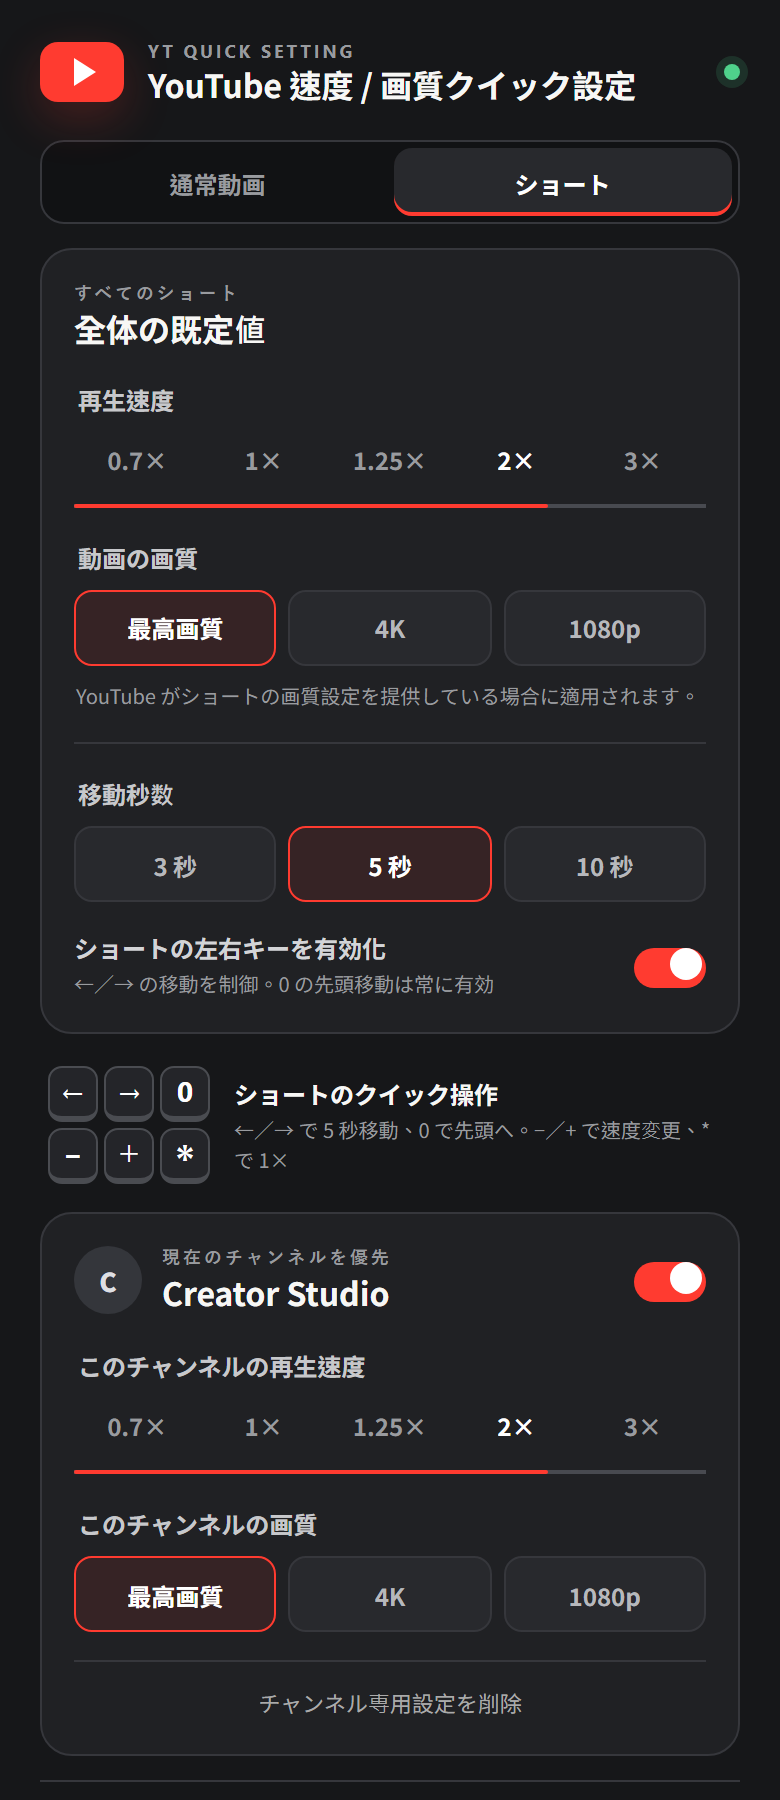
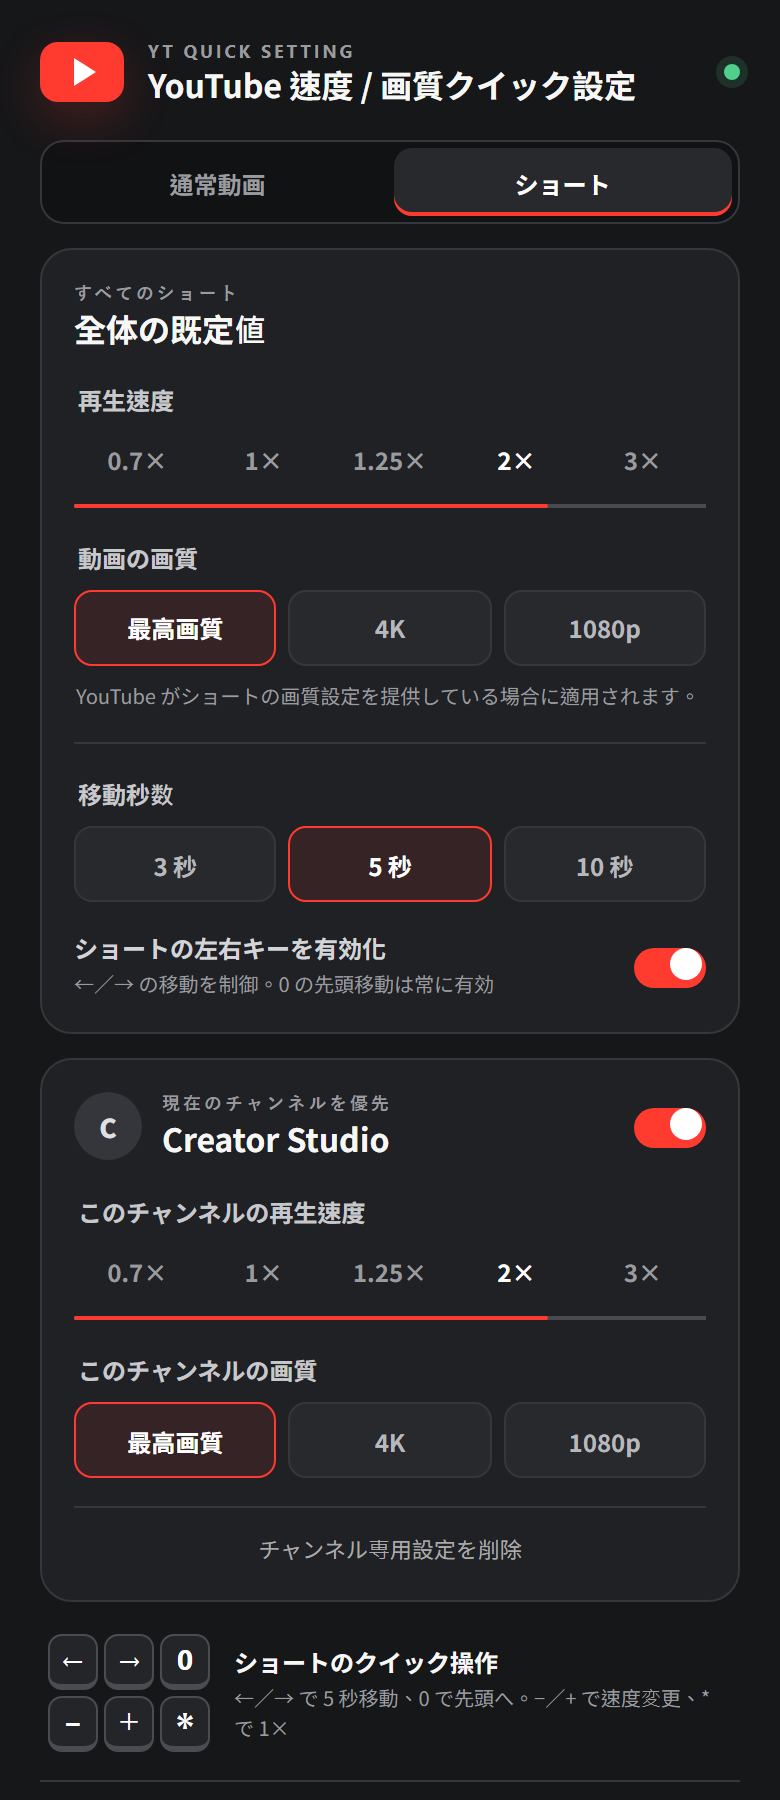
Restore previous Shorts popup layout

diff --git a/tests/popup-ui.test.js b/tests/popup-ui.test.js
@@ -46,8 +46,8 @@ const { chromium } = require("playwright");
   const shortsShortcut = await page.locator("#shortcutHint").boundingBox();
   const shortsChannel = await page.locator("#channelCard").boundingBox();
   assert.ok(shortsSettings && shortsShortcut && shortsChannel, "Shorts layout regions should render");
-  assert.ok(shortsShortcut.y >= shortsSettings.y + shortsSettings.height - 1, "Shorts shortcuts should follow the seek settings");
-  assert.ok(shortsChannel.y >= shortsShortcut.y + shortsShortcut.height - 1, "Shorts shortcuts should appear above channel settings");
+  assert.ok(shortsChannel.y >= shortsSettings.y + shortsSettings.height - 1, "Shorts channel settings should follow the global settings");
+  assert.ok(shortsShortcut.y >= shortsChannel.y + shortsChannel.height - 1, "Shorts shortcuts should stay below channel settings");
 
   await page.locator("#languageSelect").selectOption("en");
   assert.equal(await page.locator("#appTitle").innerText(), "YouTube Quick Speed / Quality Settings");
@@ -77,7 +77,7 @@ const { chromium } = require("playwright");
   await page.locator("[data-content-type='regular']").click();
   const movedRegularChannel = await page.locator("#channelCard").boundingBox();
   const movedRegularShortcut = await page.locator("#shortcutHint").boundingBox();
-  assert.ok(movedRegularChannel && movedRegularShortcut && movedRegularShortcut.y >= movedRegularChannel.y + movedRegularChannel.height - 1, "switching back should restore the regular shortcut position");
+  assert.ok(movedRegularChannel && movedRegularShortcut && movedRegularShortcut.y >= movedRegularChannel.y + movedRegularChannel.height - 1, "switching back should keep the regular shortcut position");
   await page.locator("[data-content-type='shorts']").click();
 
   await page.locator("#languageSelect").selectOption("zh-Hant");

diff --git a/scripts/render-marketing-assets.js b/scripts/render-marketing-assets.js
@@ -106,7 +106,7 @@ async function renderHero(browser, localeKey, locale, popupPath) {
       .shot{position:relative;justify-self:end;transform:rotate(2deg)}.shot:before{content:"";position:absolute;inset:10% -13%;border-radius:50%;background:#ff3b30;filter:blur(150px);opacity:.27}
       .shot img{position:relative;width:800px;border:2px solid rgba(255,255,255,.18);border-radius:34px;box-shadow:0 90px 180px rgba(0,0,0,.66),0 0 0 18px rgba(255,255,255,.025)}
       footer{position:absolute;z-index:3;left:282px;right:260px;bottom:86px;display:flex;justify-content:space-between;color:#8d9097;font-size:24px;letter-spacing:.06em}
-    </style></head><body><div class="noise"></div><main><section><div class="brand"><img src="${icon}"><strong>${locale.brandName}</strong></div><p class="eyebrow">${locale.eyebrow}</p><h1>${locale.title}</h1><p class="subtitle">${locale.subtitle}</p><div class="chips">${chips}</div></section><div class="shot"><img src="${popup}"></div></main><footer><span>CHROME EXTENSION · v1.3.1</span><span>繁體中文 · ENGLISH · 日本語</span></footer></body></html>`);
+    </style></head><body><div class="noise"></div><main><section><div class="brand"><img src="${icon}"><strong>${locale.brandName}</strong></div><p class="eyebrow">${locale.eyebrow}</p><h1>${locale.title}</h1><p class="subtitle">${locale.subtitle}</p><div class="chips">${chips}</div></section><div class="shot"><img src="${popup}"></div></main><footer><span>CHROME EXTENSION · v1.3.2</span><span>繁體中文 · ENGLISH · 日本語</span></footer></body></html>`);
   await page.screenshot({ path: path.join(outputDir, `promo-${localeKey}-4k.png`), animations: "disabled" });
   await page.close();
 }

diff --git a/popup.html b/popup.html
@@ -61,8 +61,6 @@
         </div>
       </section>
 
-      <div class="shortcut-slot" id="shortsShortcutSlot"></div>
-
       <section class="channel-card" id="channelCard" aria-labelledby="channelHeading">
         <div class="section-heading">
           <div class="channel-title-wrap">
@@ -95,12 +93,10 @@
         <p class="channel-empty" id="channelEmpty">請在 YouTube 影片頁面開啟此面板，即可加入頻道專屬設定。</p>
       </section>
 
-      <div class="shortcut-slot" id="regularShortcutSlot">
-        <footer class="shortcut-hint" id="shortcutHint">
-          <div class="key-pair" id="shortcutKeys" aria-hidden="true"><kbd>−</kbd><kbd>＋</kbd><kbd>＊</kbd></div>
-          <p><strong id="shortcutTitle">播放時直接調速</strong><span id="shortcutDescription">按 −／+ 切換速度，按 * 恢復 1×</span></p>
-        </footer>
-      </div>
+      <footer class="shortcut-hint" id="shortcutHint">
+        <div class="key-pair" id="shortcutKeys" aria-hidden="true"><kbd>−</kbd><kbd>＋</kbd><kbd>＊</kbd></div>
+        <p><strong id="shortcutTitle">播放時直接調速</strong><span id="shortcutDescription">按 −／+ 切換速度，按 * 恢復 1×</span></p>
+      </footer>
 
       <div class="language-settings">
         <div class="language-label">

diff --git a/popup.js b/popup.js
@@ -304,8 +304,6 @@ function renderType() {
     button.setAttribute("aria-current", selected ? "true" : "false");
   });
   applyTranslations();
-  const shortcutTarget = $(activeContentType === "shorts" ? "#shortsShortcutSlot" : "#regularShortcutSlot");
-  if ($("#shortcutHint").parentElement !== shortcutTarget) shortcutTarget.append($("#shortcutHint"));
   renderGlobal();
   renderChannel();
 }

diff --git a/docs/releases/v1.3.2.md b/docs/releases/v1.3.2.md
@@ -1,0 +1,11 @@
+# YouTube 快速設定速度 / 畫質 v1.3.2
+
+## 介面調整
+
+- Shorts 分頁恢復上一版排列。
+- 頻道優先設定位於快進秒數與方向鍵設定下方。
+- Shorts 快速操作按鍵說明移回頻道優先設定下方。
+
+## 相容性
+
+- 不改變快捷鍵功能、使用者設定或 Chrome 權限。
